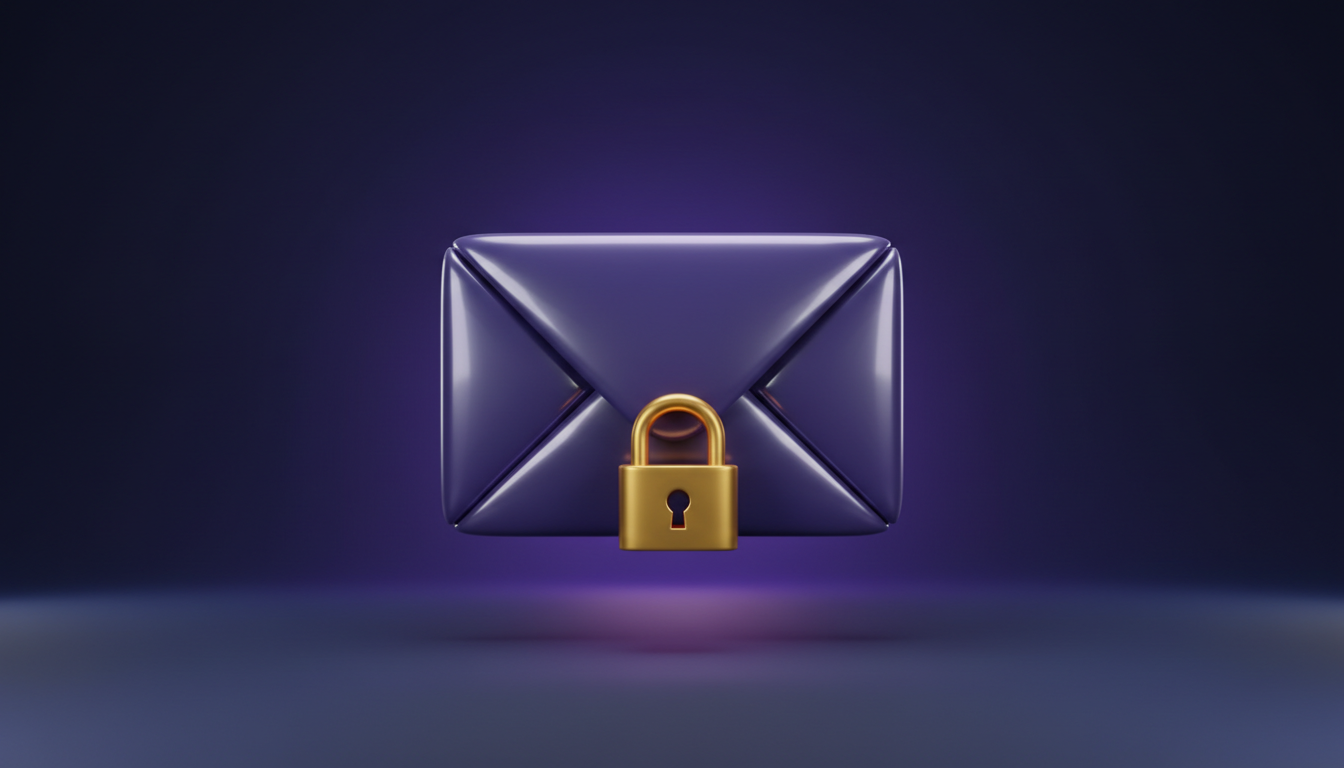
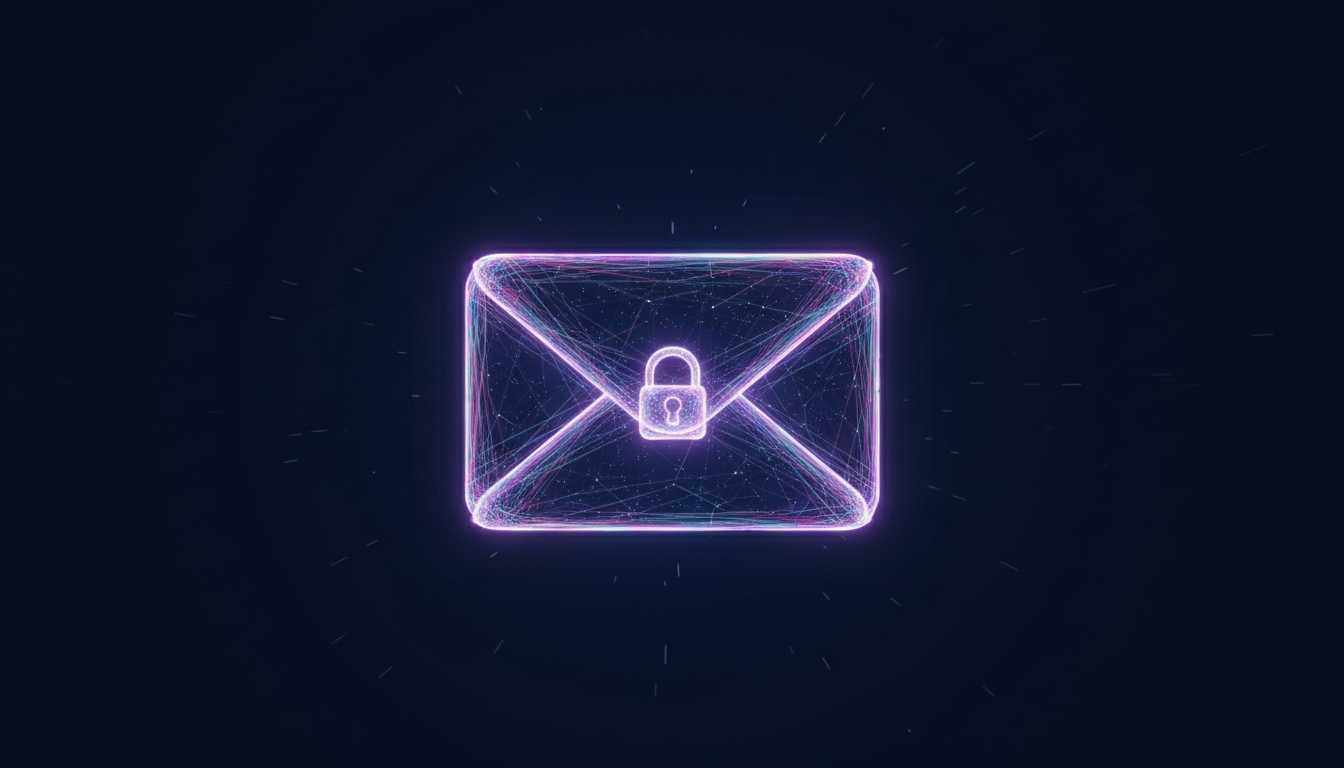
Home: wire fal.ai card art (futuristic neon set)
Replace the gradient+emoji placeholders with a cohesive fal.ai-generated set
(deep-navy, glossy holographic hero objects, neon accent glow): publish (book→
portal), nfts (holographic tiles), sales (rising chart), threads (chat-bubble
lineage tree), messages/DMs (padlocked light envelope), wallet (coin-stream
vault). 16:9, drop straight into .home-art via background-image (cover).

diff --git a/index.html b/index.html
@@ -318,27 +318,27 @@
            on the .home-art (background-size:cover is already applied) — or swap in an <img>. -->
       <div class="home-grid">
         <button class="home-card" data-goto="wallet">
-          <div class="home-art" style="--g1:#1f6feb;--g2:#0d3a8a"><img src="./brand/bitcoin-sv.svg" class="home-art-img" alt="Bitcoin SV" /></div>
+          <div class="home-art" style="background-image:url(./brand/home/wallet.png)"></div>
           <div class="home-card-body"><h3>Wallet</h3><p>Your keys &amp; balance. Back up once, restore anywhere.</p></div>
         </button>
         <button class="home-card" data-goto="editions">
-          <div class="home-art" style="--g1:#2ea043;--g2:#0f5323">📤</div>
+          <div class="home-art" style="background-image:url(./brand/home/publish.png)"></div>
           <div class="home-card-body"><h3>Publish</h3><p>Turn your content into editions anyone can buy.</p></div>
         </button>
         <button class="home-card" data-goto="tokens">
-          <div class="home-art" style="--g1:#9e6a03;--g2:#5a3c02">🎴</div>
+          <div class="home-art" style="background-image:url(./brand/home/nfts.png)"></div>
           <div class="home-card-body"><h3>My NFTs</h3><p>Your collection — share a sales page, transfer, or view.</p></div>
         </button>
         <button class="home-card" data-goto="sales">
-          <div class="home-art" style="--g1:#b3791f;--g2:#5c3c0a">📊</div>
+          <div class="home-art" style="background-image:url(./brand/home/sales.png)"></div>
           <div class="home-card-body"><h3>Sales</h3><p>Your sales stats, buyers &amp; earnings — as creator and reseller.</p></div>
         </button>
         <button class="home-card" data-goto="discussions">
-          <div class="home-art" style="--g1:#1f9e8f;--g2:#0d4f48">💬</div>
+          <div class="home-art" style="background-image:url(./brand/home/threads.png)"></div>
           <div class="home-card-body"><h3>Threads</h3><p>Members-only chat along each collection’s lineage.</p></div>
         </button>
         <button class="home-card" data-goto="messages">
-          <div class="home-art" style="--g1:#8957e5;--g2:#48247a">✉</div>
+          <div class="home-art" style="background-image:url(./brand/home/messages.png)"></div>
           <div class="home-card-body"><h3>DMs</h3><p>Send encrypted notes or files, on-chain.</p></div>
         </button>
       </div>
